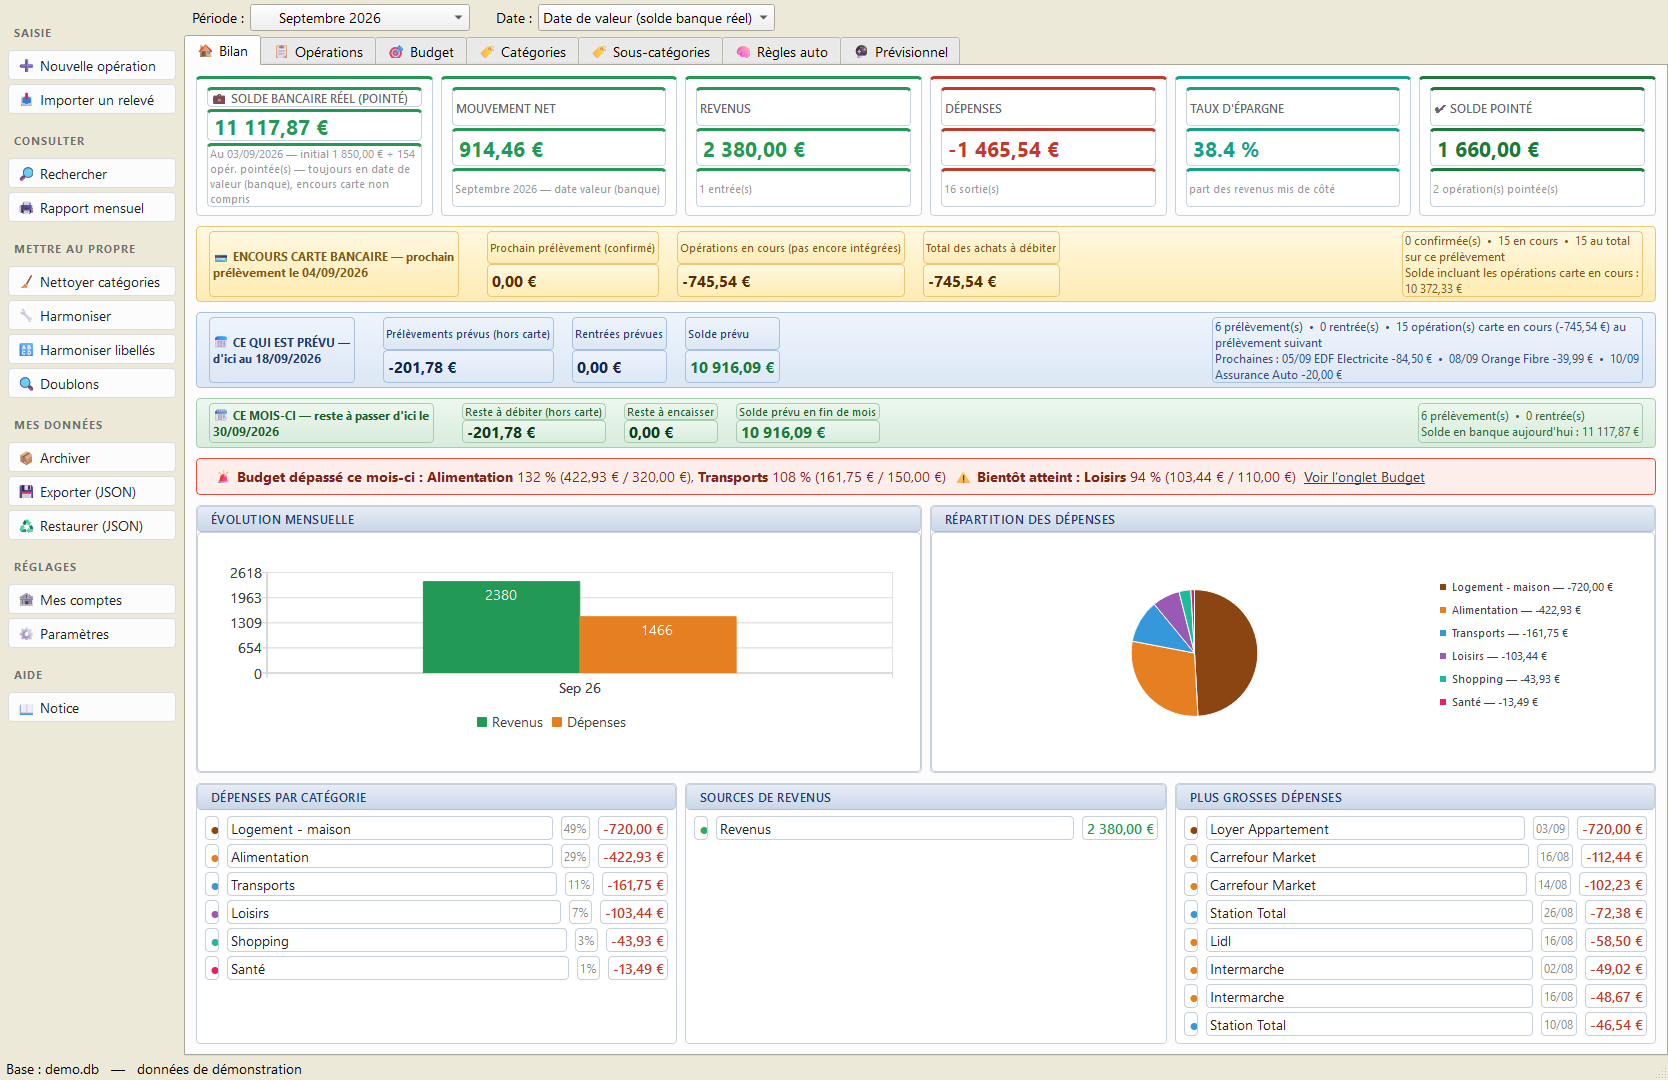
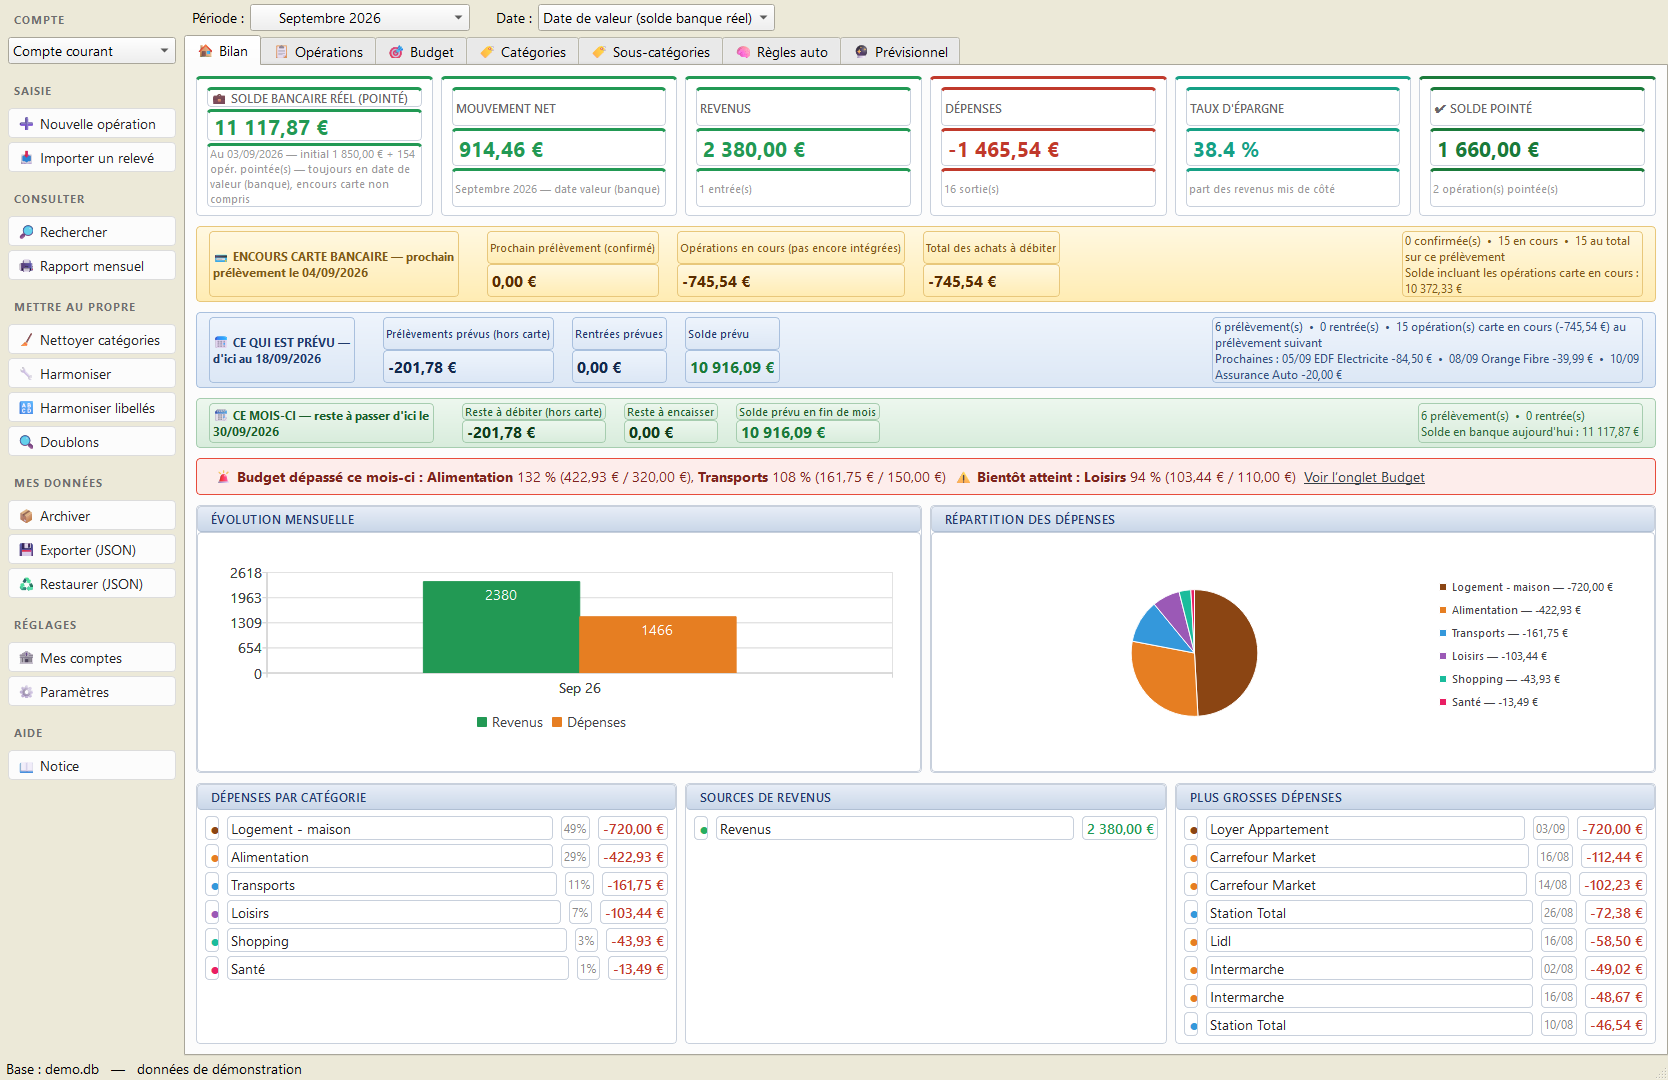
Montrer le multicompte sur les captures de la vitrine
Les captures refaites ce matin portaient bien le bouton « Mes comptes », mais
rien n'y montrait la fonction elle-même : le sélecteur de comptes reste caché
tant qu'il n'y en a qu'un seul, et le titre de la fenêtre ne porte alors aucun
nom de compte (`main_window._fill_comptes`). La base de démonstration n'ayant
qu'un compte, la vitrine annonçait une nouveauté qu'aucune image ne montrait.

La base de démonstration ouvre donc un « Livret A » à côté du compte courant,
alimenté de 150 EUR par mois : c'est le cas de figure le plus courant, et il
montre au passage que chaque compte garde son propre solde de départ. Les
captures restent prises sur le compte courant, dont aucun chiffre ne bouge.

Changed region(s): [[0.0, 0.0, 0.1247, 0.7333]]

diff --git a/outils/captures_promo.py b/outils/captures_promo.py
@@ -154,7 +154,37 @@ def construire_base(chemin):
             db.insert_rule({"id": f"g{i}", "pattern": motif, "amount": None,
                             "categorie": cat, "sous_cat": "", "no_overwrite": 0,
                             "created_at": f"{AUJOURDHUI.year}-01-01"})
+
+    _ajouter_second_compte(db)
     return db
+
+
+def _ajouter_second_compte(db):
+    """Ouvre un livret à côté du compte courant.
+
+    Sans lui, les captures ne montreraient PAS le multicompte : le sélecteur
+    de comptes reste caché tant qu'il n'y en a qu'un seul, et le titre de la
+    fenêtre ne porte alors pas de nom de compte (cf. `_fill_comptes` dans
+    `main_window.py`). La vitrine annonçait donc une fonction qu'aucune image
+    ne montrait.
+
+    Un livret d'épargne alimenté chaque mois : c'est le cas de figure le plus
+    courant à côté d'un compte courant, et il illustre au passage que chaque
+    compte garde son propre solde de départ.
+    """
+    courant = db.compte_id
+    livret = db.add_compte("Livret A", 3200.00, f"{AUJOURDHUI.year}-01-01")
+    db.compte_id = livret
+    with db.batch():
+        for mois in range(1, AUJOURDHUI.month + 1):
+            d = date(AUJOURDHUI.year, mois, 5)
+            if d > AUJOURDHUI:
+                continue
+            db.insert_tx(_tx(f"e{mois}", d, "Virement Epargne", "Épargne",
+                             "", 150.00, "Virement"))
+    # Les captures montrent le compte courant : on y revient, et c'est lui que
+    # l'application rouvrira (`set_compte_courant` mémorise le choix).
+    db.set_compte_courant(courant)
 
 
 def _laisser_dessiner(app, secondes):
